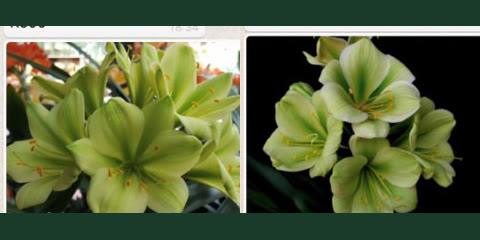
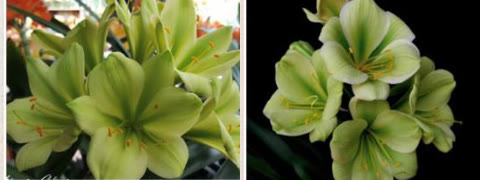
Plant 3: tighter crop no padding. Remove fixed aspect-ratio so images size naturally

diff --git a/index.html b/index.html
@@ -181,7 +181,7 @@
     
     .plant-img {
       width: 100%;
-      aspect-ratio: 4 / 3;
+      
       object-fit: contain;
       background: #f5f0e8;
     }
@@ -371,7 +371,7 @@
       .filters { padding: 16px; }
       .filter-search { width: 100%; }
       .plant-grid { grid-template-columns: 1fr; gap: 16px; }
-      .plant-img { aspect-ratio: 4 / 3 !important; object-fit: contain !important; }
+      .plant-img {  object-fit: contain !important; }
       .catalogue { padding: 20px 16px; }
     }
 
